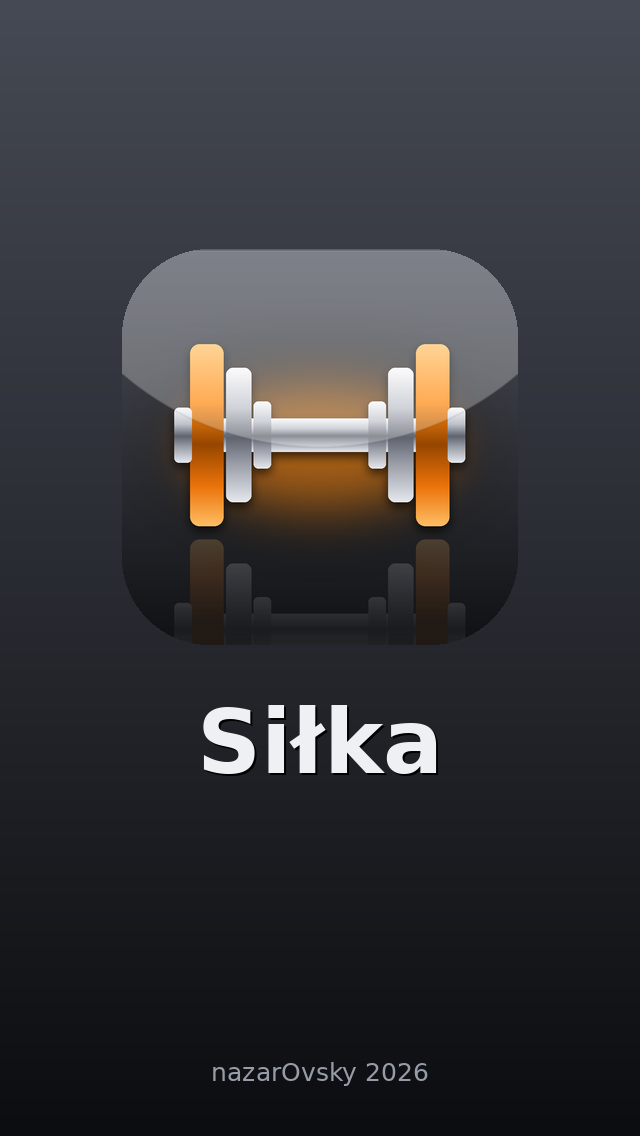
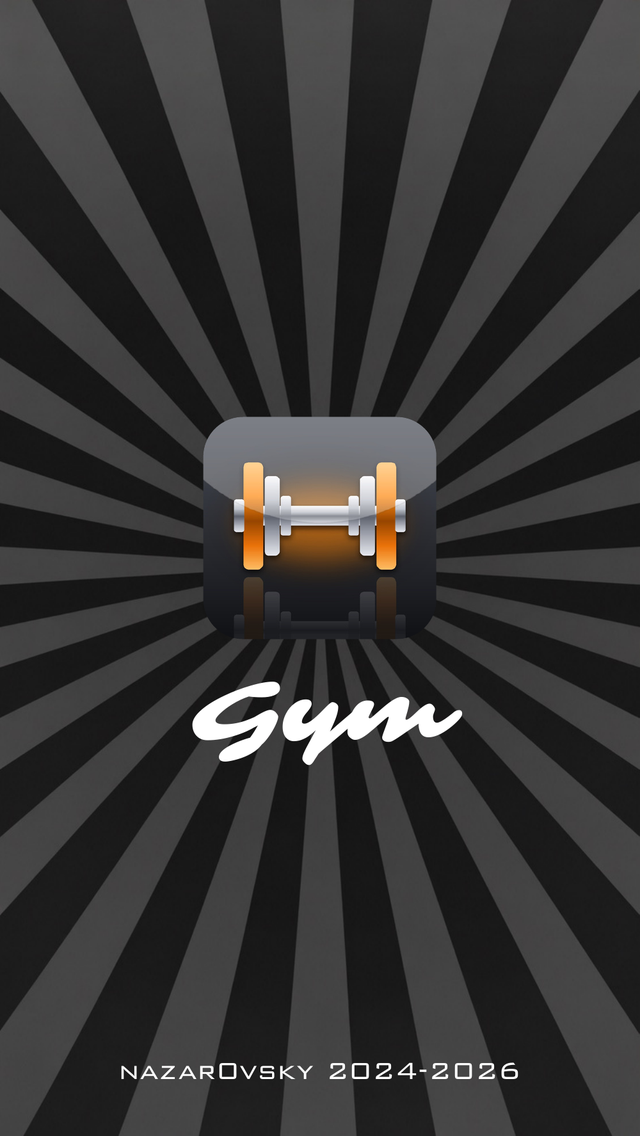
Add files via upload

diff --git a/SLHomeController.m b/SLHomeController.m
@@ -1,0 +1,140 @@
+#import "SLHomeController.h"
+#import "SLStore.h"
+#import "SLTheme.h"
+#import "SLViews.h"
+
+@interface SLHomeController ()
+{
+    UIScrollView *_scroll;
+    SLStatView *_countView, *_timeView, *_volumeView;
+    UILabel *_detail;
+    UIButton *_newButton;
+    UIButton *_repeatButton;
+    UILabel *_last;
+}
+@end
+
+@implementation SLHomeController
+
+- (id)init
+{
+    if ((self = [super init])) self.title = @"Główna";
+    return self;
+}
+
+- (void)dealloc { [[NSNotificationCenter defaultCenter] removeObserver:self]; }
+
+- (UILabel *)labelAt:(CGRect)f size:(CGFloat)size bold:(BOOL)bold color:(UIColor *)color
+{
+    UILabel *l = [[UILabel alloc] initWithFrame:f];
+    l.backgroundColor = [UIColor clearColor];
+    l.textColor = color;
+    l.font = bold ? [UIFont boldSystemFontOfSize:size] : [UIFont systemFontOfSize:size];
+    l.textAlignment = NSTextAlignmentCenter;
+    l.shadowColor = [UIColor colorWithWhite:0 alpha:0.85f];
+    l.shadowOffset = CGSizeMake(0, -1);
+    [_scroll addSubview:l];
+    return l;
+}
+
+- (void)viewDidLoad
+{
+    [super viewDidLoad];
+    self.view.backgroundColor = SLBackgroundColor();
+    _scroll = [[UIScrollView alloc] initWithFrame:self.view.bounds];
+    _scroll.autoresizingMask = UIViewAutoresizingFlexibleWidth | UIViewAutoresizingFlexibleHeight;
+    _scroll.contentSize = CGSizeMake(320, 400);
+    _scroll.alwaysBounceVertical = YES;
+    [self.view addSubview:_scroll];
+
+    UILabel *title = [self labelAt:CGRectMake(20, 14, 280, 34) size:28 bold:YES color:SLTextColor()];
+    title.text = @"Gym";
+    UILabel *sub = [self labelAt:CGRectMake(20, 46, 280, 18) size:13 bold:NO color:SLSubtleColor()];
+    sub.text = @"Twoje treningi w liczbach";
+
+    _countView  = [[SLStatView alloc] initWithFrame:CGRectMake(10, 76, 96, 76)];
+    _timeView   = [[SLStatView alloc] initWithFrame:CGRectMake(112, 76, 96, 76)];
+    _volumeView = [[SLStatView alloc] initWithFrame:CGRectMake(214, 76, 96, 76)];
+    _countView.caption = @"Treningi";
+    _timeView.caption = @"Czas";
+    _volumeView.caption = @"Objętość";
+    [_scroll addSubview:_countView];
+    [_scroll addSubview:_timeView];
+    [_scroll addSubview:_volumeView];
+
+    _detail = [self labelAt:CGRectMake(10, 158, 300, 18) size:13 bold:NO color:SLSubtleColor()];
+
+    _newButton = SLGelButton(@"Nowy trening", 0, CGRectMake(20, 192, 280, 58));
+    _newButton.titleLabel.font = [UIFont boldSystemFontOfSize:22];
+    [_newButton addTarget:self action:@selector(newTapped) forControlEvents:UIControlEventTouchUpInside];
+    [_scroll addSubview:_newButton];
+
+    _repeatButton = SLGelButton(@"Powtórz poprzedni trening", 1, CGRectMake(20, 262, 280, 46));
+    [_repeatButton addTarget:self action:@selector(repeatTapped) forControlEvents:UIControlEventTouchUpInside];
+    [_scroll addSubview:_repeatButton];
+
+    _last = [self labelAt:CGRectMake(20, 318, 280, 56) size:13 bold:NO color:SLSubtleColor()];
+    _last.numberOfLines = 3;
+
+    [[NSNotificationCenter defaultCenter] addObserver:self selector:@selector(refresh) name:SLStoreDidChangeNotification object:nil];
+}
+
+- (void)viewWillAppear:(BOOL)animated
+{
+    [super viewWillAppear:animated];
+    [self refresh];
+}
+
+- (void)refresh
+{
+    if (!self.isViewLoaded) return;
+    SLStore *st = [SLStore shared];
+    NSDictionary *t = [st totalStats];
+    long n = [[t objectForKey:@"count"] longValue];
+    _countView.value = [NSString stringWithFormat:@"%ld", n];
+    _timeView.value = SLLongDuration([[t objectForKey:@"seconds"] doubleValue]);
+    _volumeView.value = SLBigWeightString([[t objectForKey:@"volume"] doubleValue]);
+    long sets = [[t objectForKey:@"sets"] longValue], reps = [[t objectForKey:@"reps"] longValue];
+    _detail.text = n > 0 ? [NSString stringWithFormat:@"%@ · %@", SLCountString(sets, @"seria", @"serie", @"serii"),
+                            SLCountString(reps, @"powtórzenie", @"powtórzenia", @"powtórzeń")]
+                         : @"Zacznij pierwszy trening, a tu pojawią się twoje liczby.";
+
+    NSDictionary *active = [st active];
+    NSArray *ws = [st workouts];
+    if (active) {
+        [_newButton setTitle:@"Wróć do treningu" forState:UIControlStateNormal];
+        _repeatButton.hidden = YES;
+        _last.text = @"Masz trwający trening. Dokończ go albo zakończ w zakładce Trening.";
+    } else {
+        [_newButton setTitle:@"Nowy trening" forState:UIControlStateNormal];
+        _repeatButton.hidden = [ws count] == 0;
+        if ([ws count]) {
+            NSDictionary *w = [ws objectAtIndex:0];
+            _last.text = [NSString stringWithFormat:@"Poprzedni trening: %@\n%@, %@",
+                          SLDateString([[w objectForKey:@"start"] doubleValue]),
+                          SLCountString([SLStore doneSetsInWorkout:w], @"seria", @"serie", @"serii"),
+                          SLWeightString([SLStore volumeOfWorkout:w])];
+        } else {
+            _last.text = @"";
+        }
+    }
+}
+
+- (void)newTapped
+{
+    SLStore *st = [SLStore shared];
+    if (![st active]) [st startWorkout];
+    self.tabBarController.selectedIndex = 1;
+}
+
+- (void)repeatTapped
+{
+    SLStore *st = [SLStore shared];
+    NSArray *ws = [st workouts];
+    if (![ws count]) return;
+    if ([st active]) { self.tabBarController.selectedIndex = 1; return; }
+    [st startWorkoutRepeating:[ws objectAtIndex:0]];
+    self.tabBarController.selectedIndex = 1;
+}
+
+@end

diff --git a/SLTheme.m b/SLTheme.m
@@ -122,6 +122,21 @@ UIImage *SLTabIcon(int kind)
             [[UIBezierPath bezierPathWithOvalInRect:CGRectMake(3, y, 4, 4)] fill];
             [[UIBezierPath bezierPathWithRoundedRect:CGRectMake(10, y + 0.5f, 17, 3)  cornerRadius:1.5f] fill];
         }
+    } else if (kind == 4) {                /* dom = główna */
+        UIBezierPath *roof = [UIBezierPath bezierPath];
+        [roof moveToPoint:CGPointMake(15, 3.5f)];
+        [roof addLineToPoint:CGPointMake(28, 15.5f)];
+        [roof addLineToPoint:CGPointMake(23.5f, 15.5f)];
+        [roof addLineToPoint:CGPointMake(23.5f, 26)];
+        [roof addLineToPoint:CGPointMake(17.5f, 26)];
+        [roof addLineToPoint:CGPointMake(17.5f, 18.5f)];
+        [roof addLineToPoint:CGPointMake(12.5f, 18.5f)];
+        [roof addLineToPoint:CGPointMake(12.5f, 26)];
+        [roof addLineToPoint:CGPointMake(6.5f, 26)];
+        [roof addLineToPoint:CGPointMake(6.5f, 15.5f)];
+        [roof addLineToPoint:CGPointMake(2, 15.5f)];
+        [roof closePath];
+        [roof fill];
     } else {                               /* suwaki = ustawienia */
         static const CGFloat knob[3] = { 19, 9, 16 };
         for (int i = 0; i < 3; i++) {
@@ -270,6 +285,35 @@ NSString *SLDurationString(long seconds)
     sl_split_seconds(seconds, &h, &m, &s);
     if (h > 0) return [NSString stringWithFormat:@"%ld:%02ld:%02ld", h, m, s];
     return [NSString stringWithFormat:@"%02ld:%02ld", m, s];
+}
+
+NSString *SLLongDuration(double seconds)
+{
+    long total = (long)(seconds + 30.0) / 60;      /* zaokrąglenie do minut */
+    long h = total / 60, m = total % 60;
+    if (h > 0) return [NSString stringWithFormat:@"%ld godz. %ld min", h, m];
+    return [NSString stringWithFormat:@"%ld min", m];
+}
+
+NSString *SLGroupedNumber(double v)
+{
+    long n = (long)(v + 0.5);
+    BOOL neg = n < 0;
+    if (neg) n = -n;
+    NSString *digits = [NSString stringWithFormat:@"%ld", n];
+    NSMutableString *out = [NSMutableString string];
+    NSUInteger len = [digits length];
+    for (NSUInteger i = 0; i < len; i++) {
+        if (i > 0 && (len - i) % 3 == 0) [out appendString:@"\u00a0"];
+        [out appendString:[digits substringWithRange:NSMakeRange(i, 1)]];
+    }
+    return neg ? [@"-" stringByAppendingString:out] : out;
+}
+
+NSString *SLBigWeightString(double kg)
+{
+    double v = [SLStore shared].units == 1 ? sl_kg_to_lb(kg) : kg;
+    return [NSString stringWithFormat:@"%@ %@", SLGroupedNumber(v), SLUnitName()];
 }
 
 static NSDateFormatter *SLFormatter(NSString *fmt)

diff --git a/SLViews.m b/SLViews.m
@@ -249,6 +249,52 @@ static UIImage *SLFieldImage(void)
 
 @end
 
+/* ---------- kafelek statystyki ---------- */
+
+@implementation SLStatView
+
+- (id)initWithFrame:(CGRect)f
+{
+    if ((self = [super initWithFrame:f])) {
+        self.backgroundColor = [UIColor clearColor];
+        self.contentMode = UIViewContentModeRedraw;
+    }
+    return self;
+}
+
+- (void)setValue:(NSString *)v { _value = [v copy]; [self setNeedsDisplay]; }
+- (void)setCaption:(NSString *)v { _caption = [v copy]; [self setNeedsDisplay]; }
+
+- (void)drawRect:(CGRect)rect
+{
+    CGContextRef c = UIGraphicsGetCurrentContext();
+    CGRect b = CGRectInset(self.bounds, 0.5f, 0.5f);
+    UIBezierPath *shape = [UIBezierPath bezierPathWithRoundedRect:b cornerRadius:10];
+    CGContextSaveGState(c);
+    [shape addClip];
+    Gradient(c, self.bounds, C(74, 78, 88, 1), C(30, 32, 37, 1));
+    /* odbicie: szklany połysk na górnej połowie */
+    Gradient(c, CGRectMake(0, 0, self.bounds.size.width, self.bounds.size.height * 0.5f), C(255, 255, 255, 0.22f), C(255, 255, 255, 0.04f));
+    CGContextRestoreGState(c);
+    [C(0, 0, 0, 0.9f) setStroke];
+    [shape stroke];
+    [C(255, 255, 255, 0.16f) setFill];
+    CGContextFillRect(c, CGRectMake(8, 1, self.bounds.size.width - 16, 1));
+
+    CGFloat w = self.bounds.size.width;
+    CGContextSetShadowWithColor(c, CGSizeMake(0, -1), 0, C(0, 0, 0, 0.9f).CGColor);
+    [[UIColor whiteColor] set];
+    CGFloat size = 24.0f;
+    UIFont *vf = [UIFont boldSystemFontOfSize:size];
+    /* zmniejsz czcionkę, jeśli wartość się nie mieści */
+    while (size > 12.0f && [_value sizeWithFont:vf].width > w - 10) { size -= 1.0f; vf = [UIFont boldSystemFontOfSize:size]; }
+    [_value drawInRect:CGRectMake(4, 16, w - 8, 30) withFont:vf lineBreakMode:NSLineBreakByClipping alignment:NSTextAlignmentCenter];
+    [SLAccentColor() set];
+    [[_caption uppercaseString] drawInRect:CGRectMake(2, 54, w - 4, 16) withFont:[UIFont boldSystemFontOfSize:11] lineBreakMode:NSLineBreakByClipping alignment:NSTextAlignmentCenter];
+}
+
+@end
+
 /* ---------- wykres ---------- */
 
 @implementation SLChartView

diff --git a/SLStore.m b/SLStore.m
@@ -356,6 +356,29 @@ NSString *const SLStoreDidChangeNotification = @"SLStoreDidChangeNotification";
     return d > 0 ? d : 0;
 }
 
+- (NSDictionary *)totalStats
+{
+    long count = 0, sets = 0, reps = 0;
+    double seconds = 0, volume = 0;
+    for (NSDictionary *w in [self workouts]) {
+        count++;
+        seconds += [SLStore durationOfWorkout:w];
+        for (NSDictionary *e in [w objectForKey:@"entries"]) {
+            for (NSDictionary *s in [e objectForKey:@"sets"]) {
+                if (![[s objectForKey:@"done"] boolValue]) continue;
+                int r = [[s objectForKey:@"reps"] intValue];
+                sets++;
+                reps += r;
+                volume += sl_volume([[s objectForKey:@"kg"] doubleValue], r);
+            }
+        }
+    }
+    return [NSDictionary dictionaryWithObjectsAndKeys:
+            [NSNumber numberWithLong:count], @"count", [NSNumber numberWithDouble:seconds], @"seconds",
+            [NSNumber numberWithDouble:volume], @"volume", [NSNumber numberWithLong:sets], @"sets",
+            [NSNumber numberWithLong:reps], @"reps", nil];
+}
+
 - (void)clearAll
 {
     [_root removeAllObjects];

diff --git a/SLTheme.h b/SLTheme.h
@@ -10,7 +10,7 @@ UIColor *SLGreenColor(void);
 
 void SLStyleNavigationBar(UINavigationBar *bar);
 void SLStyleTabBar(UITabBar *bar);
-void SLStyleTabItem(UITabBarItem *item, int kind);   /* 0 trening, 1 historia, 2 ćwiczenia, 3 ustawienia */
+void SLStyleTabItem(UITabBarItem *item, int kind);   /* 0 trening, 1 historia, 2 ćwiczenia, 3 ustawienia, 4 główna */
 UIImage *SLTabIcon(int kind);
 void SLStyleTable(UITableView *table);
 
@@ -27,6 +27,9 @@ NSString *SLWeightString(double kg);                /* "62,5 kg" */
 double SLKgFromDisplay(double v);
 NSString *SLUnitName(void);
 NSString *SLDurationString(long seconds);          /* 12:05 albo 1:02:05 */
+NSString *SLLongDuration(double seconds);          /* 12 godz. 34 min */
+NSString *SLGroupedNumber(double v);               /* 128 450 (spacja co trzy cyfry) */
+NSString *SLBigWeightString(double kg);            /* 128 450 kg */
 NSString *SLDateString(double ts);                 /* "pon. 21 paź" */
 NSString *SLDateTimeString(double ts);
 NSString *SLPlural(long n, NSString *one, NSString *few, NSString *many);

diff --git a/SLWorkoutController.m b/SLWorkoutController.m
@@ -79,7 +79,7 @@
     title.textAlignment = NSTextAlignmentCenter;
     title.shadowColor = [UIColor colorWithWhite:0 alpha:0.9f];
     title.shadowOffset = CGSizeMake(0, -1);
-    title.text = @"Siłka";
+    title.text = @"Gym";
     [_startView addSubview:title];
 
     UILabel *sub = [[UILabel alloc] initWithFrame:CGRectMake(20, 80, 280, 22)];
@@ -272,7 +272,7 @@
     [self refresh];
     UIAlertView *a = [[UIAlertView alloc] initWithTitle:@"Trening zapisany" message:summary delegate:nil cancelButtonTitle:@"OK" otherButtonTitles:nil];
     [a show];
-    if (self.tabBarController) self.tabBarController.selectedIndex = 1;
+    if (self.tabBarController) self.tabBarController.selectedIndex = 2;
 }
 
 - (void)cancelTapped

diff --git a/AppDelegate.m b/AppDelegate.m
@@ -1,6 +1,7 @@
 #import "AppDelegate.h"
 #import "SLStore.h"
 #import "SLTheme.h"
+#import "SLHomeController.h"
 #import "SLWorkoutController.h"
 #import "SLHistoryController.h"
 #import "SLExercisesController.h"
@@ -32,6 +33,7 @@
 
     _workout = [[SLWorkoutController alloc] init];
     NSArray *controllers = [NSArray arrayWithObjects:
+        [self navWith:[[SLHomeController alloc] init] title:@"Główna" kind:4],
         [self navWith:_workout title:@"Trening" kind:0],
         [self navWith:[[SLHistoryController alloc] init] title:@"Historia" kind:1],
         [self navWith:[[SLExercisesController alloc] init] title:@"Ćwiczenia" kind:2],

diff --git a/SLViews.h b/SLViews.h
@@ -30,5 +30,11 @@ UIView *SLHeaderForTitle(NSString *title, NSString *right);
 @property (nonatomic, copy) NSArray *labels;     /* NSString dla pierwszego i ostatniego punktu */
 @end
 
+/* Błyszczący kafelek z dużą liczbą i podpisem */
+@interface SLStatView : UIView
+@property (nonatomic, copy) NSString *value;
+@property (nonatomic, copy) NSString *caption;
+@end
+
 UIToolbar *SLKeyboardToolbar(id target, SEL doneAction);
 UIImage *SLCheckImage(BOOL on);

diff --git a/SLStore.h b/SLStore.h
@@ -41,6 +41,8 @@ extern NSString *const SLStoreDidChangeNotification;
 + (NSInteger)doneSetsInWorkout:(NSDictionary *)w;
 + (NSInteger)exerciseCountInWorkout:(NSDictionary *)w;
 + (double)durationOfWorkout:(NSDictionary *)w;
+/* Suma ze wszystkich zakończonych treningów: count, seconds, volume (kg), sets, reps */
+- (NSDictionary *)totalStats;
 
 /* ---- ustawienia ---- */
 @property (nonatomic) NSInteger units;                  /* 0 = kg, 1 = lb */

diff --git a/SLHistoryController.m b/SLHistoryController.m
@@ -199,7 +199,7 @@ static NSTimeInterval SLWeekStart(void)
     }
     [[SLStore shared] startWorkoutRepeating:_w];
     [self.navigationController popToRootViewControllerAnimated:NO];
-    self.tabBarController.selectedIndex = 0;
+    self.tabBarController.selectedIndex = 1;
 }
 
 @end

diff --git a/SLHomeController.h b/SLHomeController.h
@@ -1,0 +1,5 @@
+#import <UIKit/UIKit.h>
+
+/* Zakładka "Główna": łączne statystyki oraz przyciski "Nowy trening" i "Powtórz poprzedni trening". */
+@interface SLHomeController : UIViewController <UIAlertViewDelegate>
+@end

diff --git a/README.md b/README.md
@@ -1,10 +1,12 @@
-# Siłka – dziennik treningowy na iOS 6
+# Gym – dziennik treningowy na iOS 6 (dawniej Siłka)
 
 Aplikacja do zapisywania treningów na siłowni, napisana w Objective-C pod iOS 6 (jailbreak), budowana w Theosie na GitHubie.
 Wygląd: grafit z połyskiem (odbicia na paskach, przyciskach i komórkach), pomarańczowy akcent.
 
 ## Co potrafi (1.0)
 
+* **Główna** – łączna liczba treningów, łączny czas i objętość (suma kg × powtórzenia ze wszystkich serii), liczba serii i powtórzeń,
+  przyciski **Nowy trening** i **Powtórz poprzedni trening** oraz podsumowanie ostatniego treningu.
 * **Trening** – start treningu, dodawanie ćwiczeń, serie z ciężarem i powtórzeniami, ptaszek „zrobione".
   Przy każdej serii podpowiada wartości z poprzedniego treningu tego ćwiczenia. Oznacza **nowe rekordy** (szacowane 1RM wg wzoru Epleya).
   „Powtórz ostatni trening" tworzy nowy trening z tych samych ćwiczeń.
@@ -32,6 +34,7 @@ Lokalnie: `./build.sh` (potrzebny Theos), test logiki: `gcc sl_core.c tests/core
 | `SLStore.*` | dane: ćwiczenia, treningi, historia, zapis JSON |
 | `sl_core.*` | czysta logika w C (1RM, objętość, odmiana „seria/serie/serii") + `tests/core_test.c` |
 | `SLTheme.*`, `SLViews.*` | wygląd: paski, żelowe przyciski, komórki, wykres |
+| `SLHomeController.*` | zakładka Główna: łączne statystyki i przyciski startu |
 | `SLWorkoutController.*` | zakładka Trening, serie, stoper przerwy |
 | `SLPickerController.*`, `SLExercisesController.*` | lista ćwiczeń, wyszukiwarka, własne ćwiczenia, szczegóły i wykres |
 | `SLHistoryController.*` | historia i podgląd treningu |
